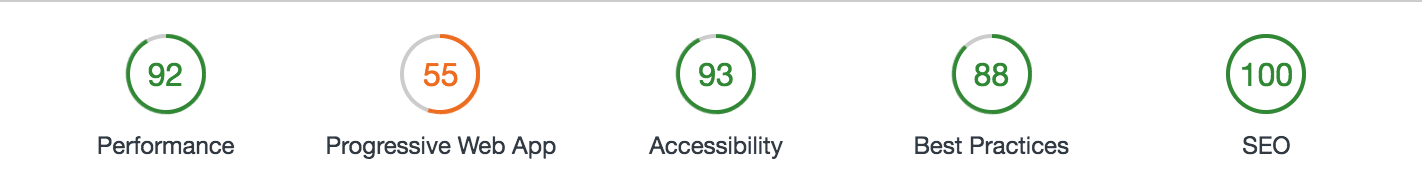
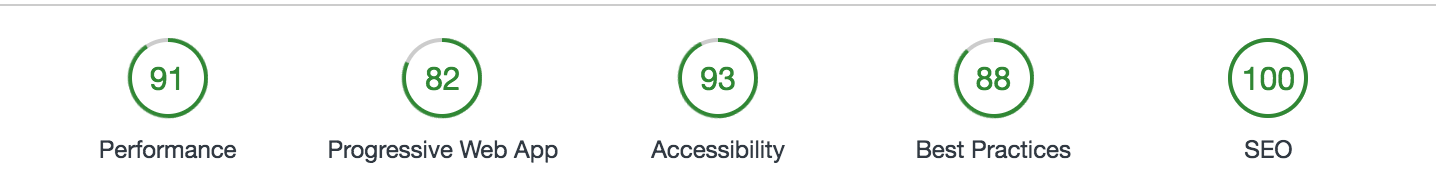
update Lighthouse score

diff --git a/README.md b/README.md
@@ -8,8 +8,8 @@ This site uses CSS Grid, CSS Variables and basic PWA functionality.
 Lighthouse Scores:
 ![Lighthouse Score](img/lighthouse-scores.png)
 
-- Performance: 92
-- Progressive Web App: 55
+- Performance: 91
+- Progressive Web App: 82
 - Accessibility: 93
 - Best Practices: 88
 - SEO: 100
